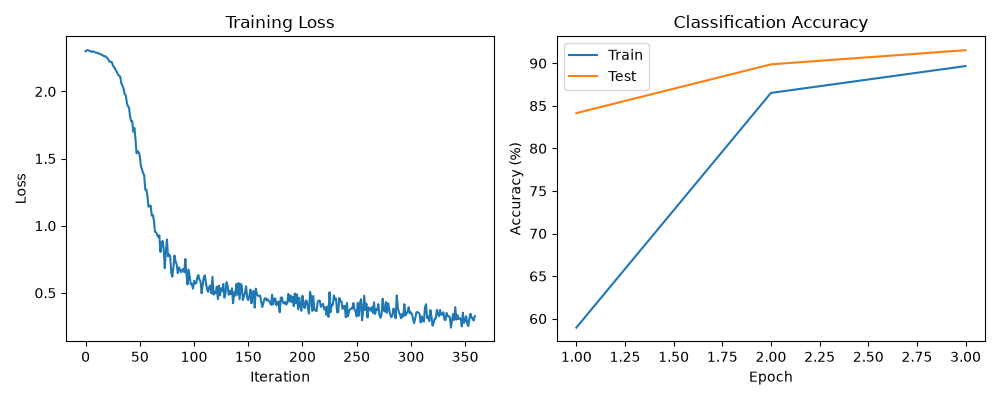
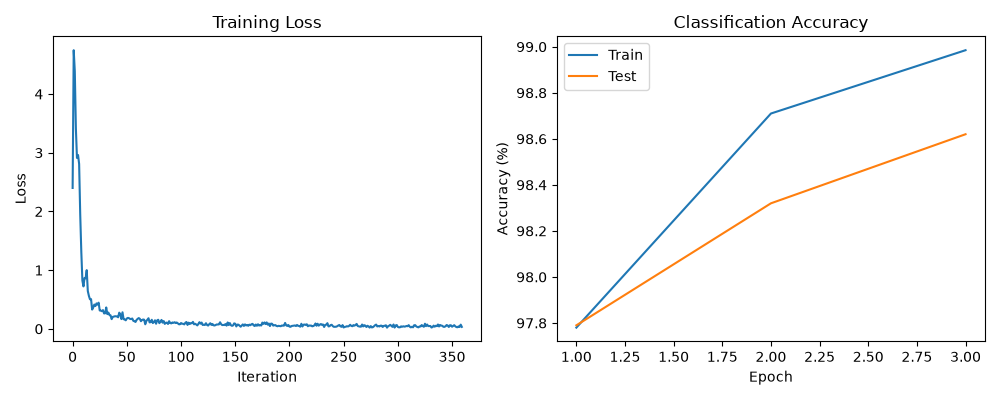
Align MNIST classifier with Module 7B ConvNet

diff --git a/utilities.py b/utilities.py
@@ -4,25 +4,33 @@ from torch.utils.data import DataLoader
 from torchvision import datasets, transforms
 import matplotlib.pyplot as plt
 
-# LeNet CNN for MNIST classification
-class LeNet(nn.Module):
+
+# Convolutional Neural Network for MNIST classification
+class ConvNet(nn.Module):
     def __init__(self):
         super().__init__()
-        self.conv1 = nn.Conv2d(1, 6, kernel_size=5)
-        self.pool1 = nn.AvgPool2d(2)
-        self.conv2 = nn.Conv2d(6, 16, kernel_size=5)
-        self.pool2 = nn.AvgPool2d(2)
-        self.fc1 = nn.Linear(16 * 4 * 4, 120)
-        self.fc2 = nn.Linear(120, 84)
-        self.fc3 = nn.Linear(84, 10)
+
+        self.layer1 = nn.Sequential(
+            nn.Conv2d(1, 32, kernel_size=5, stride=1, padding=2),
+            nn.BatchNorm2d(32),
+            nn.ReLU(),
+            nn.MaxPool2d(kernel_size=2, stride=2))
+
+        self.layer2 = nn.Sequential(
+            nn.Conv2d(32, 64, kernel_size=5, stride=1, padding=2),
+            nn.BatchNorm2d(64),
+            nn.ReLU(),
+            nn.MaxPool2d(kernel_size=2, stride=2))
+
+        self.fc1 = nn.Linear(7 * 7 * 64, 1000)
+        self.fc2 = nn.Linear(1000, 10)
 
     def forward(self, x):
-        x = self.pool1(torch.relu(self.conv1(x)))
-        x = self.pool2(torch.relu(self.conv2(x)))
-        x = torch.flatten(x, 1)
-        x = torch.relu(self.fc1(x))
-        x = torch.relu(self.fc2(x))
-        return self.fc3(x)
+        x = self.layer1(x)
+        x = self.layer2(x)
+        x = x.reshape(x.size(0), -1)
+        x = self.fc1(x)
+        return self.fc2(x)
 
 
 # Load MNIST training and testing datasets
@@ -38,7 +46,22 @@ def load_data(batch_size):
     return train_loader, test_loader
 
 
-# Train the model and track loss and accuracy
+# Evaluate model accuracy on a dataset
+def track_accuracy(model, loader, device):
+    model.eval()
+    correct, total = 0, 0
+
+    with torch.no_grad():
+        for images, labels in loader:
+            images, labels = images.to(device), labels.to(device)
+            outputs = model(images)
+            correct += (outputs.argmax(dim=1) == labels).sum().item()
+            total += labels.size(0)
+
+    return 100 * correct / total
+
+
+# Train model and track loss and accuracy
 def train_model(model, train_loader, test_loader, num_epochs, learning_rate):
     device = torch.device('cuda' if torch.cuda.is_available() else 'cpu')
     model = model.to(device)
@@ -48,7 +71,6 @@ def train_model(model, train_loader, test_loader, num_epochs, learning_rate):
 
     for epoch in range(num_epochs):
         model.train()
-        correct, total = 0, 0
 
         for images, labels in train_loader:
             images, labels = images.to(device), labels.to(device)
@@ -57,23 +79,10 @@ def train_model(model, train_loader, test_loader, num_epochs, learning_rate):
             loss = criterion(outputs, labels)
             loss.backward()
             optimizer.step()
-
             loss_list.append(loss.item())
-            correct += (outputs.argmax(dim=1) == labels).sum().item()
-            total += labels.size(0)
 
-        acc_train.append(100 * correct / total)
-
-        model.eval()
-        correct, total = 0, 0
-        with torch.no_grad():
-            for images, labels in test_loader:
-                images, labels = images.to(device), labels.to(device)
-                outputs = model(images)
-                correct += (outputs.argmax(dim=1) == labels).sum().item()
-                total += labels.size(0)
-
-        acc_test.append(100 * correct / total)
+        acc_train.append(track_accuracy(model, train_loader, device))
+        acc_test.append(track_accuracy(model, test_loader, device))
         print(f'Epoch {epoch + 1}/{num_epochs}: Train Accuracy = {acc_train[-1]:.2f}%, Test Accuracy = {acc_test[-1]:.2f}%')
 
     return loss_list, acc_train, acc_test

diff --git a/run.py b/run.py
@@ -1,6 +1,6 @@
 
 import argparse
-from utilities import LeNet, load_data, train_model, plot
+from utilities import ConvNet, load_data, train_model, plot
 
 def main():
     parser = argparse.ArgumentParser(description='MNIST Classification with PyTorch')
@@ -10,7 +10,7 @@ def main():
     args = parser.parse_args()
 
     train_loader, test_loader = load_data(args.batch_size)
-    model = LeNet()
+    model = ConvNet()
     loss_list, acc_train, acc_test = train_model(model, train_loader, test_loader, args.num_epochs, args.learning_rate)
     plot(loss_list, acc_train, acc_test)
 

diff --git a/README.md b/README.md
@@ -3,7 +3,7 @@ MNIST Classification Using PyTorch
 
 # MNIST Classification with PyTorch
 
-This project implements a LeNet convolutional neural network (CNN) to classify handwritten digits from the MNIST dataset using PyTorch.
+This project implements a convolutional neural network (ConvNet) for MNIST handwritten digit classification using PyTorch. The model follows Module 7B, Section 3, and uses argparse to configure training hyperparameters through the command line.
 
 ## Project Files
 - `utilities.py`: Model architecture, dataset loading, training, evaluation, and plotting.
@@ -41,9 +41,10 @@ python run.py -e 3 -b 500 -l 0.0005
 The program automatically downloads MNIST, trains the model using CPU or GPU when available, evaluates classification accuracy, and saves the results to `figure.png`.
 
 ## Experimental Results
-| Configuration | Test Accuracy |
-|---|---|
-| Default (2 epochs, batch 1000, LR 0.001) | 89.30% |
-| Custom (3 epochs, batch 500, LR 0.0005) | 91.53% |
 
-Results may vary between runs due to random initialization and data shuffling.
+| Configuration | Training Accuracy | Test Accuracy |
+|---|---|---|
+| Default (2 epochs, batch 1000, LR 0.001) | 97.31% | 97.40% |
+| Custom (3 epochs, batch 500, LR 0.0005) | 98.98% | 98.62% |
+
+Results may vary due to random initialization and data shuffling.
